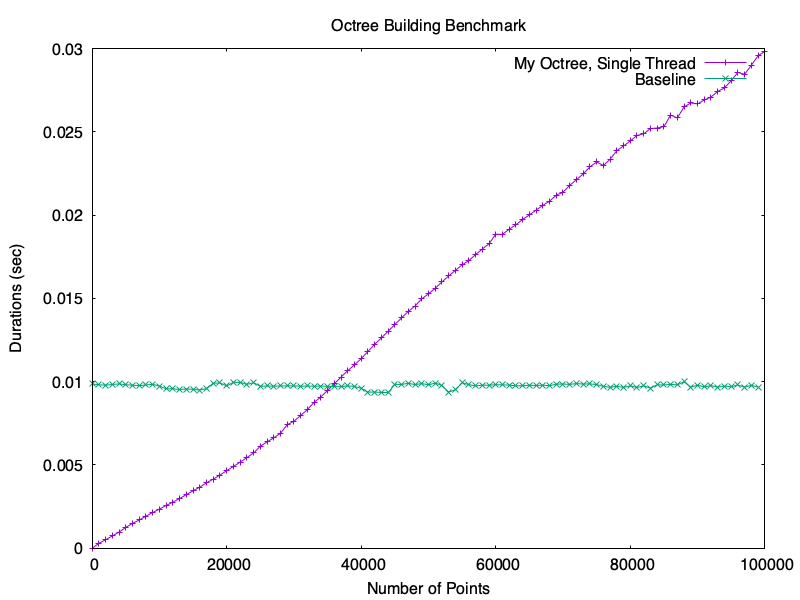
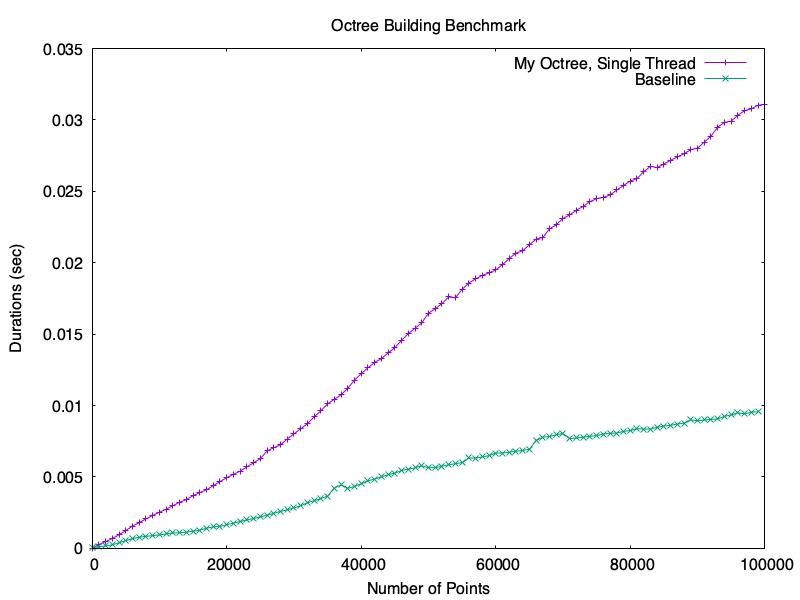
Fix a bug in benchmark

diff --git a/bin/bench.rs b/bin/bench.rs
@@ -71,11 +71,12 @@ fn bench_test(points: &Vec<Point3D>) -> BTreeMap<usize, f64> {
 
 fn bench_test_baseline(points: &Vec<Point3D>) -> BTreeMap<usize, f64> {
     let mut results = BTreeMap::new();
-    for i in (0..points.len()).step_by(1000) {
+    for i in (1..points.len()).step_by(1000) {
         results.insert(
             i,
             timeit_loops!(10, {
-                let mut tree = OtherOctree::new(Wapper(points.clone()));
+                let points_used: Vec<Point3D> = points.clone().into_iter().take(i).collect();
+                let mut tree = OtherOctree::new(Wapper(points_used));
                 tree.build(8);
             }),
         );
@@ -89,15 +90,15 @@ fn main() -> Result<(), Box<dyn std::error::Error>> {
     {
         eprintln!("\x1b[93mRunning benchmark in debug mode is meaningless. add '--release' option!\x1b[0m");
     }
+    let file = File::open("./data/points.txt")?;
+    let points = read_points(file);
+    let output_path = "./data/bench.png";
+
     // System init, set up inter-thread communication.
     // Ideally, each single-thread benchmark use a separate thread to reduce waiting time.
     let (sender1, receiver1) = mpsc::channel();
     let (sender2, receiver2) = mpsc::channel();
-    let output_path = "./data/bench.png";
     let mut handles = Vec::new();
-
-    let file = File::open("./data/points.txt")?;
-    let points = read_points(file);
 
     let points_cloned = points.clone();
     let sender1_cloned = sender1.clone();
